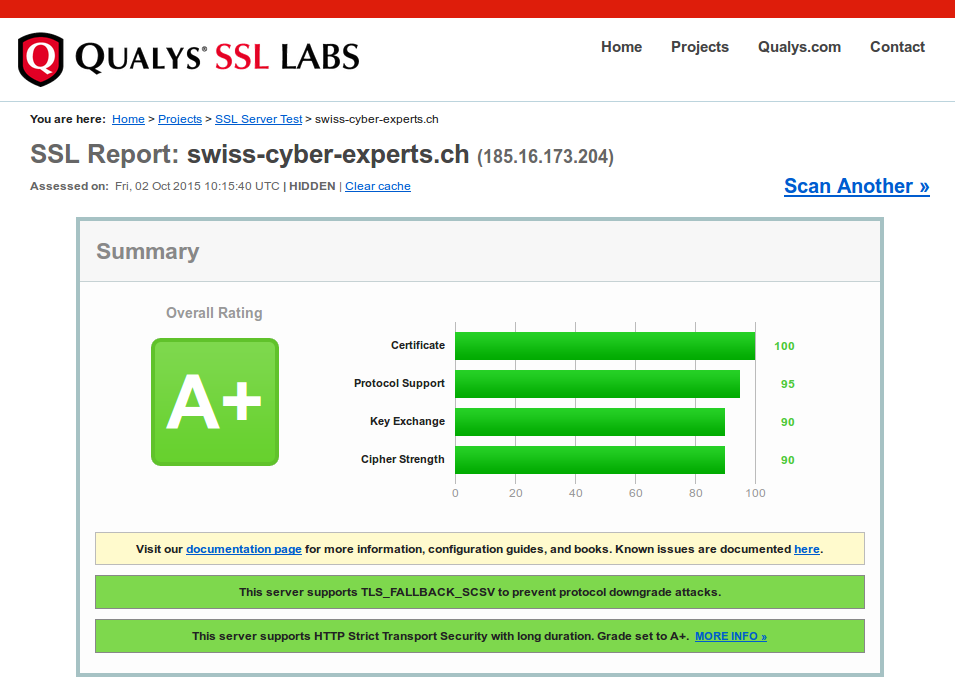
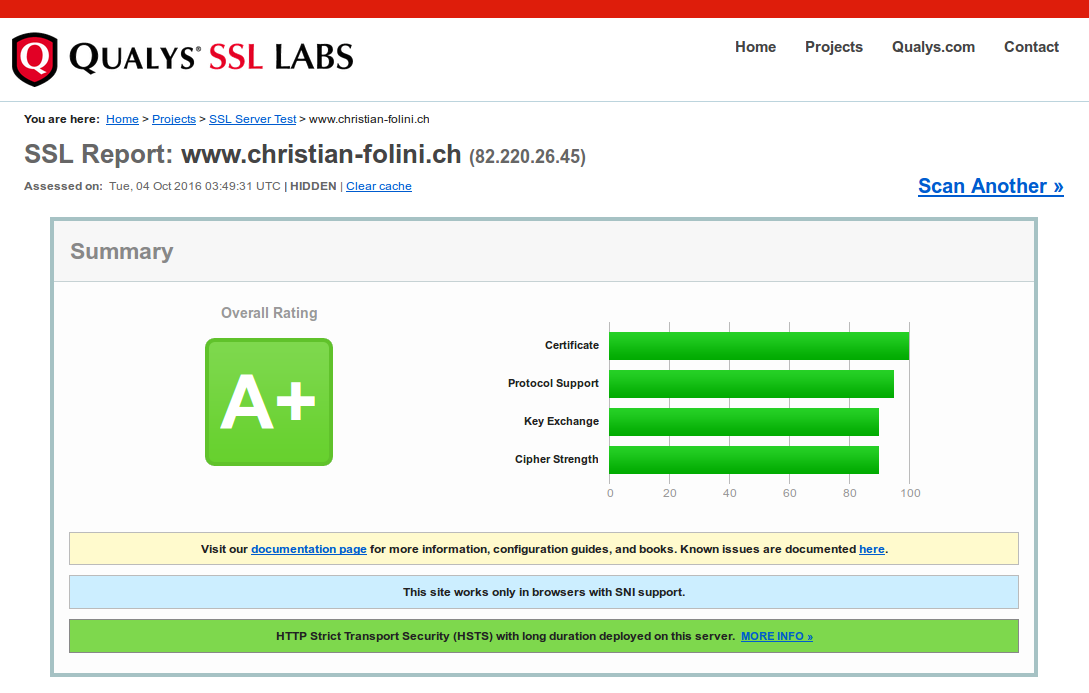
labor-03: overhaul slowly coming to an end

diff --git a/labor-03/README.md b/labor-03/README.md
@@ -470,7 +470,7 @@ SSLCertificateFile      /etc/ssl/certs/christian-folini.ch.crt
 SSLCertificateChainFile /etc/ssl/certs/lets-encrypt-chain.crt
 ```
 
-###Schritt 7: Vertrauenskette überprüfen
+###Schritt 5: Vertrauenskette überprüfen
 
 Bevor wir nun mit dem Browser oder curl auf unseren Server zugreifen, ist es angezeigt, die Vertrauenskette zu inspizieren und die Verschlüsselung zu überprüfen. Dazu verwenden wir das Kommandozeilen-Hilfsmittel `openssl`.  Da _OpenSSL_ aber anders als der Browser und curl keine Liste mit Zertifikatsauthoritäten besitzt, müssen wir dem Tool das Zertifikat der Authorität auch mitgeben. Wir besorgen es uns bei Let's Encrypt und rufen wir `openssl` gleich damit auf:
 
@@ -609,7 +609,7 @@ Entscheidend ist hier die letzte Zeile (`ok`) sowie die ersten Zeilen, wo die Ke
 
 
 
-###Schritt 5: Apache Konfiguration noch etwas verfeinern
+###Schritt 6: Apache Konfiguration noch etwas verfeinern
 
 Nun sind alle Vorbereitungen abgeschlossen und wir können den Webserver final konfigurieren. Ich liefere hier nicht mehr die komplette Konfiguration, sondern nur noch den korrekten Servernamen und den verfeinerten SSL-Teil. Als Servername dient mir hier `www.example.org`. Dies als Platzhalter für die eigentliche Domain:
 
@@ -667,18 +667,21 @@ SSLSessionCache         nonenotnull
 SSLSessionTickets       Off
 ```
 
-Natürlich bleibt diese Anpassung nicht ohne Folgen für die Performance. Allerdings nimmt sich der Performance-Verlust durchaus klein aus. Es wäre überraschend, wenn ein Last-Test auf das Ausschalten mit einem Leistungsrückgang von mehr als 10% reagieren würde.
+Natürlich bleibt diese Anpassung nicht ohne Folgen für die Performance. Allerdings nimmt sich der Performance-Verlust eher klein aus. Es wäre überraschend, wenn ein Last-Test auf das Ausschalten mit einem Leistungsrückgang von mehr als 5 oder 10% reagieren würde.
 
-###Schritt 8: Den Server im Browser aufrufen
+###Schritt 7: Den Server im Browser aufrufen
 
 Jetzt, da wir sicher sind, dass wir ein offiziell signiertes Zertifikat mit einer gültigen Vertrauenskette besitzen und auch die weitere Konfiguration im Detai verstanden haben, können wir uns dem Browser zuwenden und die konfigurierte Domain dort aufrufen. In meinem Fall ist das [https://www.christian-folini.ch](https://www.christian-folini.ch)
 
+![Screenshot: christian-folini.ch](./apache-tutorial-03-screenshot-christian-folini.ch.png)
+Der Browser bewertet die Verbindung als sicher.
+
 Interessanterweise gibt es im Internet so etwas wie eine Bewertungsinstanz, was sichere _HTTPS-Server_ betrifft. Das sehen wir uns nun noch als Bonus an.
+die Höchstnote ist mit dieser Anleitung in Reichweite.
 
+###Schritt 8 (Bonus): Qualität der SSL Sicherung extern überprüfen lassen
 
-###Schritt 9 (Bonus): Qualität der SSL Sicherung extern überprüfen lassen
-
-Ivan Ristić, der oben erwähnte Autor von mehreren Büchern über Apache und SSL, hat einen Dienst zur Überprüfung von _SSL-Webservern_ aufgebaut. Diesen Service hat er inzwischen ans Qualys weiterverkauft, wo er aktiv gepflegt und laufend erweitert wird. Er befindet sich unter [www.ssllabs.com](https://www.ssllabs.com/ssldb/index.html). Ein Webserver wie oben konfiguriert brachte mir im Test die Höchstnote von _A+_ ein.
+Ivan Ristić, der oben erwähnte Autor von mehreren Büchern über Apache und SSL, hat einen Dienst zur Überprüfung von _SSL-Webservern_ aufgebaut. Diesen Service hat er inzwischen ans Qualys weiterverkauft, wo er weiterhin gepflegt und laufend erweitert wird. Er befindet sich unter [www.ssllabs.com](https://www.ssllabs.com/ssldb/index.html). Ein Webserver wie oben konfiguriert brachte mir im Test die Höchstnote von _A+_ ein.
 
 ![Screenshot: SSLLabs](./apache-tutorial-03-screenshot-ssllabs.png)
 Die Höchstnote ist mit dieser Anleitung in Reichweite.
